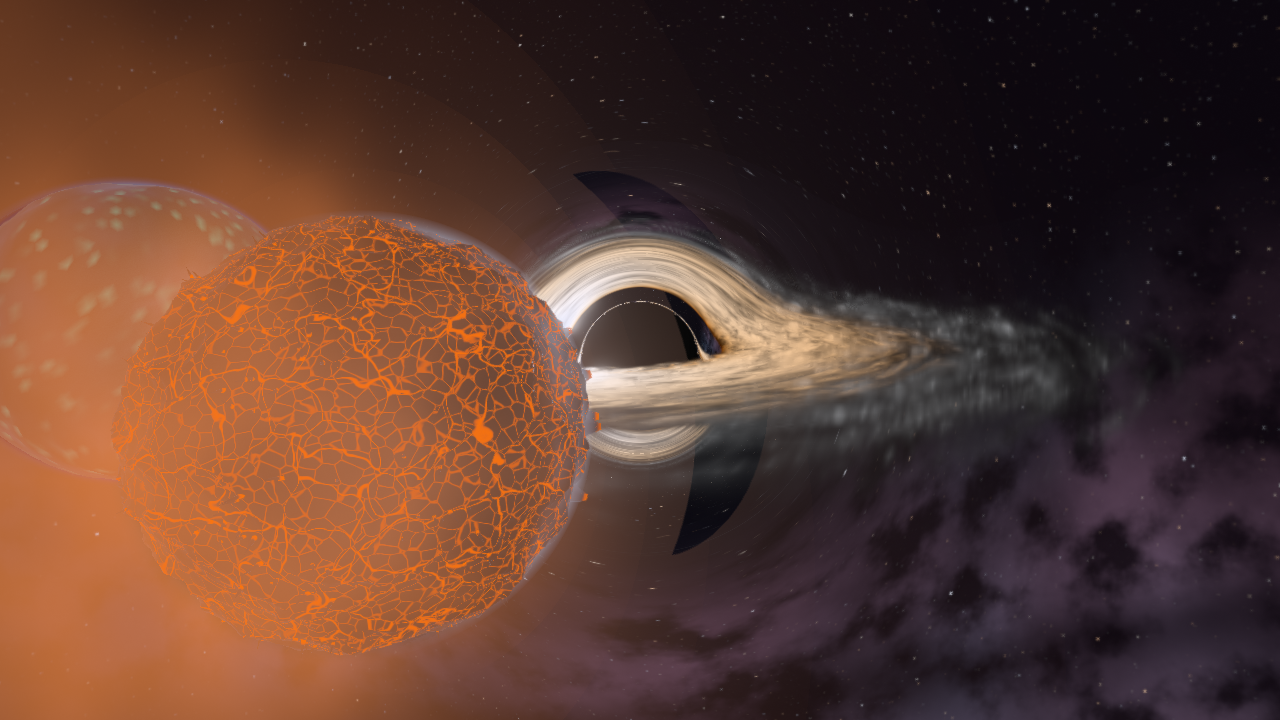
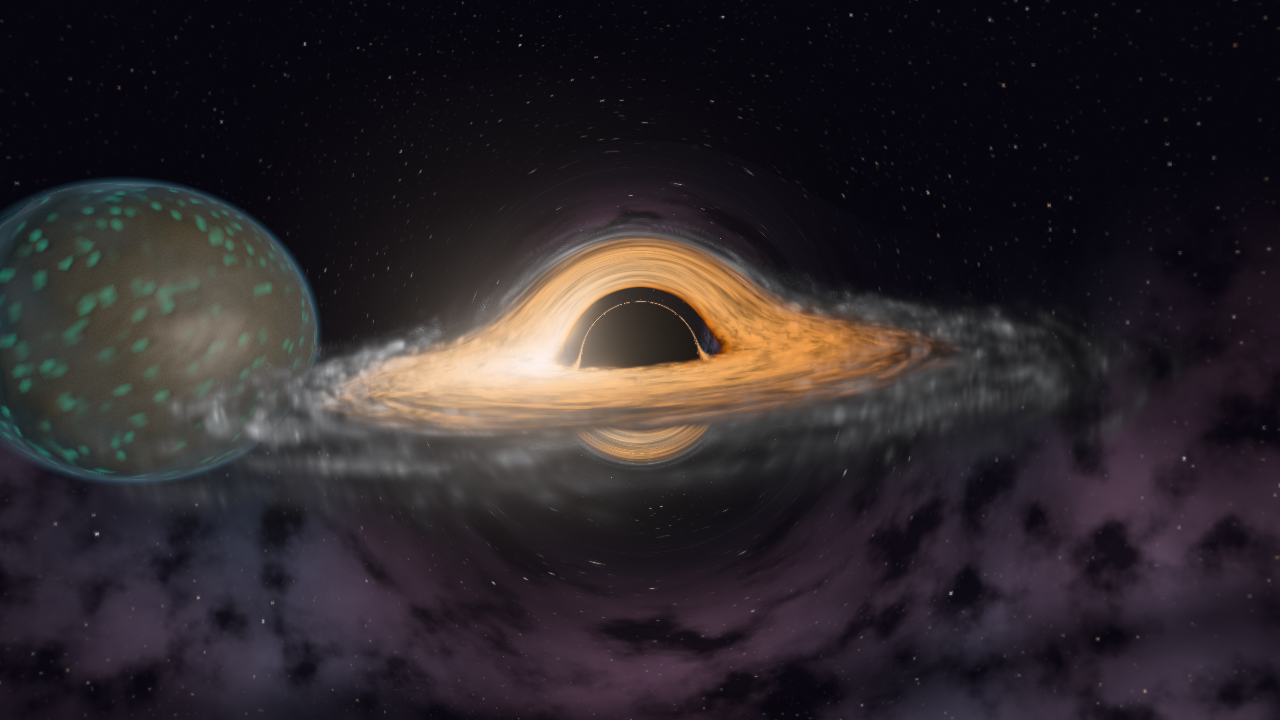
Documentar la comida de Pira, las fases y la muerte en el horizonte, y regenerar las capturas

diff --git a/src/scene/cycle.rs b/src/scene/cycle.rs
@@ -5,11 +5,12 @@
 //! | Desde J | Fase | Que pasa |
 //! | --- | --- | --- |
 //! | antes | Agonia | La supergigante roja late cada 1.9 s; Pira se le deshace encima. |
-//! | 0 - 20 s | Estertor | El latido se acelera hasta 0.7 s; la estrella se hincha, suelta una capa de gas y lanza llamaradas. |
-//! | 20 - 26 s | Silencio | Cae sobre si misma y su luz se drena. |
-//! | 26 - 30 s | Silencio | Oscuridad: solo queda la bioluminiscencia de Jardin. |
-//! | 30 s | El ojo se abre | Una onda gravitacional barre el sistema y nace Gargantua; su disco se enciende en 25 s. |
-//! | 55 s - | Despues | El disco ilumina el sistema con luz blanca azulada. |
+//! | 0 - 20 s | Estertor | El latido se acelera hasta 0.7 s; la estrella se hincha, suelta una capa de gas que arde y lanza llamaradas. |
+//! | 20 - 26 s | Silencio | Cae sobre si misma; su luz y la de la nebulosa se drenan. |
+//! | 26 - 30 s | Silencio | Oscuridad: los ojos se acostumbran y solo queda el cielo y la bioluminiscencia. |
+//! | 30 s | El ojo se abre | Una onda gravitacional barre el sistema y nace Gargantua, con un disco blanco azulado. |
+//! | 36 - 52 s | La comida | Gargantua estira a Pira hacia el agujero y la deshace; su gas entra al disco en espiral. |
+//! | 52 s - | Despues | El brazo de Pira se diluye en el disco, que se enfria a naranja fuego. Cruzar el horizonte mata y rebobina 15 s. |
 //! | J otra vez | Renacer | Fundido a blanco de 3 s y vuelve la agonia. |
 //!
 //! Todo es una **funcion pura** del tiempo y de los instantes en que se

diff --git a/README.md b/README.md
@@ -6,9 +6,11 @@ Un sistema solar explorable en nave, dibujado con un renderer por software
 propio en CPU. **Ocaso**, una supergigante roja, agoniza y late como un
 corazón, y se puede volar entre sus cinco planetas todo el tiempo que se
 quiera. Con **J** empieza el final: el latido se acelera, la estrella suelta
-una capa de gas, colapsa en una supernova fallida y en su lugar nace
+una capa de gas que arde, colapsa en una supernova fallida y en su lugar nace
 **Gargantúa**, un agujero negro con su disco de acreción que curva la luz de
-todo el cielo. Otra J la hace renacer.
+todo el cielo. Gargantúa estira a Pira, la deshace y su gas entra al disco en
+espiral hasta mezclarse con él. Se puede volar al disco; quien cruza el
+horizonte muere y el tiempo se rebobina. Otra J hace renacer a la estrella.
 
 ![Gargantúa: el ojo se abre](media/24_el_ojo.png)
 
@@ -18,6 +20,7 @@ todo el cielo. Otra J la hace renacer.
 | ![Vigía y su ojo-tormenta](media/06_vigia.png) | ![Pira: corteza en placas y lava](media/02_pira.png) |
 | ![Agujas góticas de Réquiem](media/10_agujas.png) | ![Cementerio: naves en los anillos y la baliza](media/08_cementerio.png) |
 | ![Superficie de Jardín](media/23_jardin_biopunk.png) | ![Pira y su cola de polvo](media/14_cola.png) |
+| ![Gargantúa se come a Pira](media/30_comida.png) | ![El gas de Pira se mezcla con el disco](media/31_digestion.png) |
 
 ## Lugares para visitar
 
@@ -49,7 +52,7 @@ Recorrido sugerido para grabarlo (F9 oculta el HUD):
 3. Con O (crucero), dar la vuelta al planeta sobre el bosque de hongos.
 4. Subir y alejarse con Shift.
 5. J: el estertor (la nebulosa y las llamaradas), el silencio, la onda
-   gravitacional y Gargantúa formando su disco, todo en medio minuto.
+   gravitacional, Gargantúa naciendo blanca azulada y comiéndose a Pira.
 
 ## Ejecutar
 
@@ -63,7 +66,7 @@ Opciones:
 
 ```sh
 cargo run --release -- --res 1920x1080        # resolución del render (por defecto 1280x720)
-cargo run --release -- --captura capturas     # las 30 vistas fijas como PNG, sin abrir ventana
+cargo run --release -- --captura capturas     # las 32 vistas fijas como PNG, sin abrir ventana
 cargo run --release -- --bench 30             # mide cada vista fija y da medianas por etapa
 cargo run --release -- --wire --lod           # empieza con wireframe y colores de LOD
 cargo test --release                          # pruebas de vuelo, raster, sombras y gas volumétrico

diff --git a/EXPLICACION.md b/EXPLICACION.md
@@ -1,3 +1,25 @@
+# Cambios de la cuarta revisión
+
+- **Las fases como las referencias**: la nebulosa del estertor tiene dos
+  capas (filamentos y nubes) y se apaga con la estrella, porque era ella la
+  que la iluminaba; en el silencio la exposición sube (los ojos se
+  acostumbran) y aparece el cielo; el disco nace blanco azulado (15 800 K) y
+  se enfría a naranja fuego (4 300 K).
+- **Gargantúa se come a Pira** (`cycle::swallow`, `app.rs::Warp`,
+  `shaders/gargantua.rs::Stream`): seis segundos después de abrirse el ojo,
+  los dibujos de Pira se deforman con una matriz que la estira hacia el
+  agujero y la adelgaza (la marea), la encoge y la acerca; su corteza se
+  funde y pierde su atmósfera y lo que tenía encima. A los 16 s ya no existe
+  (`Body::hidden`: no se dibuja ni se choca con ella). Su gas entra al disco
+  como un brazo en espiral **dentro del mismo volumen del Proyecto 2**: se
+  curva con la lente igual que el disco y tiene su misma turbulencia (la
+  textura de gas), así que al ensancharse y enrollarse (el gas de adentro
+  gira más rápido) se confunde con él. Se calienta al caer, del rojo al
+  blanco; cuando ya no hay Pira se vacía de afuera hacia adentro.
+- **Morir en el horizonte** (`App::watch_horizon`): la nave guarda dónde
+  estuvo cada medio segundo. A menos de 1.6 rs del agujero la pantalla se
+  funde a negro y el tiempo vuelve 15 s, con la nave donde estaba.
+
 # Cambios de la tercera revisión
 
 - **Jardín** volvió a como estaba en la primera revisión.
